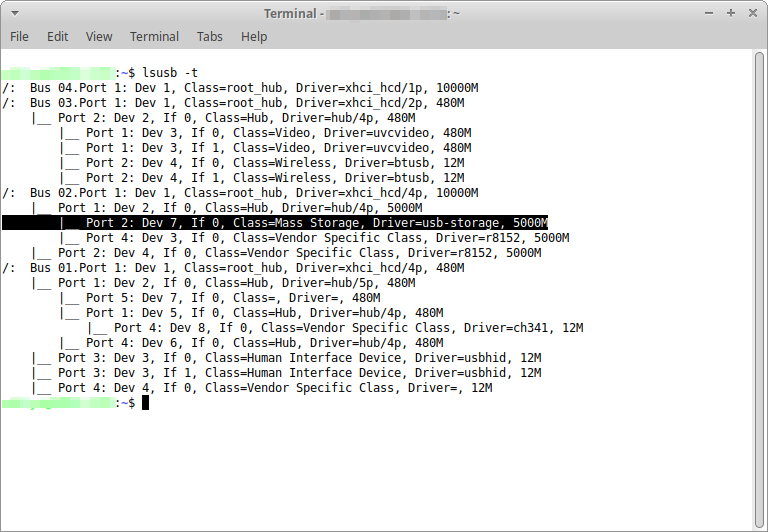
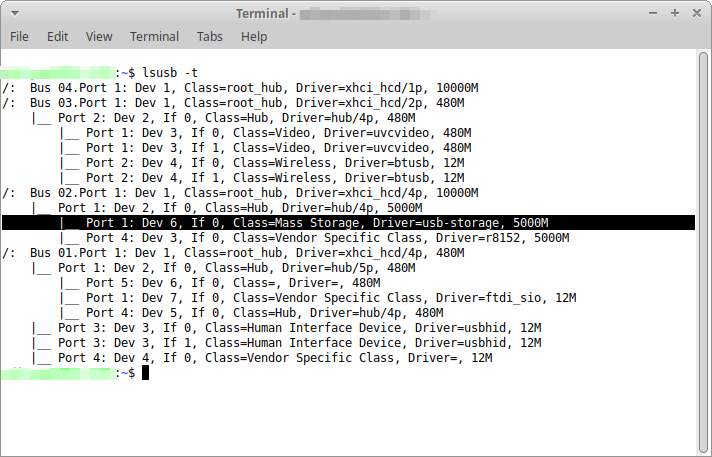
Update USB page

Changed region(s): [[0.0, 0.0, 1.0, 1.0], [0.927, 0.0, 0.9888, 0.0306], [0.0, 0.0, 0.0309, 0.0306]]

diff --git a/docs/helios64/usb.md b/docs/helios64/usb.md
@@ -1,17 +1,24 @@
 
+!!! notice
+    ***preliminary info***
 
-## USB on RK3399
-There are two types of USB controller available on RK3399. Each type has two controller so total USB controllers is 4.
+There are three types of USB controller available on RK3399. Each type has two controller so total USB controllers is 6.
 
-### Generic EHCI USB 2.0 Controller
-There are two controller of this type. This controller is Host only controller that is compatible with USB 2.0 and backward compatible with USB 1.1.
+### Generic OHCI USB 1.1 Controller
+There are two controller of this type. This controller is Host only controller that is compatible with USB 1.1.
 Supported speed:
-
-- High Speed (480 Mbps)
 
 - Full Speed (12 Mbps)
 
 - Low Speed (1.5 Mbps)
+
+### Generic EHCI USB 2.0 Controller
+There are two controller of this type. This controller is Host only controller that is compatible with USB 2.0. The controller shared port with 
+[Generic OHCI USB 1.1 Controller](#generic-ohci-usb-11-controller) therefore any USB 1.1 device connected to the port, will be automatically 
+routed to [Generic OHCI USB 1.1 Controller](#generic-ohci-usb-11-controller).
+Supported speed:
+
+- High Speed (480 Mbps)
 
 
 ### Synopsys DesignWare USB 3.0 Dual-Role Device Controller
@@ -32,11 +39,11 @@ The controller is connected to Rockchip Type-C PHY.
 
 ![!USB Connection](/helios64/img/usb/usb_diagram.png)
 
-One of EHCI Controller is connected to M.2 socket.
+One of EHCI Controller (and OHCI Controller) is connected to M.2 socket.
 
-The first Synopsys DesignWare USB 3.0 Dual-Role Device Controller is connected to USB Type-C connector and configured as OTG with help of FUSB302.
+The first USB 3.0 Dual-Role Device Controller is connected to USB Type-C connector and configured as OTG with help of [FUSB302](https://www.onsemi.com/products/interfaces/usb-type-c/fusb302).
 
-The second Synopsys DesignWare USB 3.0 Dual-Role Device Controller is connected to USB Hub 3.1 Gen 1 and configured as Host only.
+The second USB 3.0 Dual-Role Device Controller is connected to USB Hub 3.1 Gen 1 and configured as Host only.
 
 ### Power Budget
 
@@ -52,26 +59,63 @@ Each of external USB port is protected by Power Distribution switch with followi
 
 ## USB Type-C Functionality on Helios64
 
-To simplify the cabling, Helios64 is designed to have 
+To simplify the cabling, Helios64 is designed to maximize USB Type-C usage.
+
+Helios64 employ High Speed multiplexer on USB 2.0 signal, by default the USB 2.0 signal is routed to USB Serial console.
+The multiplexer can be override using [Jumper](/helios64/hardware/#jumpers)
 
 ![!USB Mux](/helios64/img/usb/usb_mux.png)
+
+When Helios64 connected to PC using USB cable, there will be 2 device connected. FTDI FT232 USB Serial on USB 2.0 and Helios64 or
+Unknown Device (if USB gadget is not configured yet, see below) on USB 3.0.
+
+On Windows PC using [USB Device Tree Viewer](https://www.uwe-sieber.de/usbtreeview_e.html) to visualize the USB tree,
+
+![!USB Tree View dual](/helios64/img/usb/dual_usb_device_windows.png)
+
+In this case, Helios64 is connected to a USB 3.1 Gen 1 Hub port 1.
+
+USB Serial Converter (FTDI FT232 USB Serial) connected under port 1 of the USB 2.0 side of the Hub and 
+RK3399 USB 3.0 (configured as USB Mass Storage Device) connected under port 1 of the USB 3.0 side of the Hub.
+
+On Linux PC using [USBview](http://www.kroah.com/linux-usb/) to visualize the USB tree,
+
+![!USBview dual](/helios64/img/usb/dual_usb_device_linux.png)
+
+In this case, Helios64 is connected to a USB 3.1 Gen 1 Hub port 1.
+
+FTDI FT232 USB Serial connected under port 1 of the USB 2.0 side of the Hub and 
+RK3399 USB 3.0 (configured as USB Mass Storage Device) connected under port 1 of the USB 3.0 side of the Hub.
+
+
+!!! info
+	Every USB hub connected to USB 3.0 port or higher will create a sibling device, USB Hub 2.0, from host point of view.
+	
+	USB 2.0 device connected port 1 of the USB 3.0 Hub, it will appear on USB 2.0 Hub port 1.
+	If USB 3.0 Device connected to same physical port	it will appear on USB  3.0 Hub port 1.
 
 ### Serial Console
 
 Serial Console of Helios64 is connected to FT232 USB Serial converter and the USB 2.0 signal of the FT232 is connected to USB 2.0 signals of USB Type-C Port.
-Refer to ***JUMPER PAGE***
 
 
 ### DisplayPort Alternate Mode
 
 Using USB Type-C to DisplayPort cable or USB Type-C to HDMI dongle, Helios64 can be connected to monitor to display Linux Desktop or other GUI application.
 
-*** Put USB Type-C to DisplayPort cable photo here ***
+![!type-c dp cable](/helios64/img/usb/typec_dp_cable.jpg)
 
-*** Put USB Type-C to HDMI dongle photo here ***
+<center>*USB Type-C to DisplayPort cable*</center>
+
+![!type-c hdmi dongle](/helios64/img/usb/typec_hdmi_usb_dongle.jpg)
+
+<center>*USB Type-C to USB 3.0, HDMI and USB Type-C dongle*</center>
+
 
 !!! note
-    DisplayPort Alternate Mode is NOT supported on U-Boot.
+    - DisplayPort Alternate Mode is NOT supported on U-Boot.
+    
+    - USB Type-C to HDMI cable might not work if it employ HDMI Alternate Mode
 
 
 ### USB Host
@@ -104,19 +148,6 @@ This is to serve as a way to (re)install OS to eMMC.
 
 ## USB under Linux
 
-### USB Bus Mapping
-
-| USB Controller | Bus number | Remarks |
-|----------------|------------|---------|
-| EHCI Host0 | 0 | |
-| EHCI Host1 | 1 | |
-| DWC3 Typec0 USB 3.0 | 2 |  |
-| DWC3 Typec0 USB 2.0 | 3 |  |
-| DWC3 Typec1 USB 3.0 | 4 |  |
-| DWC3 Typec1 USB 2.0 | 5 |  |
-
------  ***TBC***  ------
-
 ### Helios64 as Direct Attached Storage (DAS) device
 
 Helios64 can be used as Direct Attached Storage (DAS) device with help of Linux USB Gadget kernel module.
@@ -134,27 +165,37 @@ the Windows PC will not be able to read the disk content unless 3rd party softwa
 
 #### Individual Disk Exported as Separate Disk
 
------ ***more info soon*** -----
+To export all SATA disks that has been identified as /dev/sda ... /dev/sde, run the following command on Helios64.
 
 ```
-modprobe g_mass_storage file=/dev/sda,/dev/sdb,/dev/sdc,/dev/sdd,/dev/sde iSerialNumber=1234567890 iManufacturer="Kobol Innovations" iProduct=Helios64
+sudo modprobe g_mass_storage file=/dev/sda,/dev/sdb,/dev/sdc,/dev/sdd,/dev/sde iSerialNumber=1234567890 iManufacturer="Kobol Innovations" iProduct=Helios64
 ```
 
------ *** Put Windows Explorer & Disk management screenshot here *** ----- 
+The following screenshot, Helios64 connected with 5x 120GB SATA drive.
 
+***Helios64 connected to PC running Windows***
+
+USB device visualization using USB Device Tree Viewer
+![!usbtreeview Screenshot](/helios64/img/usb/linux_gadget_das_windows_usbtreeview.png)
+
+Helios64 in Device Manager
+![!device manager Screenshot](/helios64/img/usb/linux_gadget_das_windows_device_manager.png)
+
+Disks detected under Disk Management
+![!disk mgmt Screenshot](/helios64/img/usb/linux_gadget_das_windows_diskmgmt.png)
 
 ***Helios64 connected to PC running Linux***
 
-USB device visualization using [USBview](http://www.kroah.com/linux-usb/)
+USB device visualization using USBview
 ![!usbview Screenshot](/helios64/img/usb/linux_gadget_das_usbview.png)
 
 USB tree using lsusb
 ![!lsusb tree Screenshot](/helios64/img/usb/linux_gadget_das_lsusb_tree.png)
 
 ```
-$ sudo lsusb -s 2:7 -v
+$ sudo lsusb -s 2:6 -v
 
-Bus 002 Device 007: ID 0525:a4a5 Netchip Technology, Inc. Pocketbook Pro 903
+Bus 002 Device 006: ID 0525:a4a5 Netchip Technology, Inc. Pocketbook Pro 903
 Device Descriptor:
   bLength                18
   bDescriptorType         1
@@ -282,20 +323,147 @@ sdg  2:0:0:4    disk Linux    File-Stor Gadget 0404 usb
 
 #### RAID device exported as One Disk
 
------ ***more info soon*** -----
+Assuming the RAID already created and identified as /dev/md/md-raid6, run the following command on Helios64 to export the RAID block device as USB Mass Storage
 
 ```
-modprobe g_mass_storage file=/dev/md/md-raid6
+sudo modprobe g_mass_storage file=/dev/md/md-raid6 iManufacturer="Kobol Innovations" iProduct="Helios64" iSerialNumber="1234567890"
 ```
 
------ *** Put Windows Explorer & Disk management screenshot here *** ----- 
+The following screenshot, Helios64 connected with 5x 120GB SATA drive and configured as RAID 6 so total space of the block device is ~360GB (3x 120GB). The block device then formatted with NTFS.
 
------ *** Put lsusb & lsblk here *** ----- 
+***Helios64 connected to PC running Windows***
 
+USB device visualization using USB Device Tree Viewer
+![!usbtreeview Screenshot](/helios64/img/usb/linux_gadget_das_windows_usbtreeview_raid.png)
 
-## Benchmark
+Helios64 in Device Manager
+![!device manager Screenshot](/helios64/img/usb/linux_gadget_das_windows_device_manager_raid.png)
 
------ ***more info soon*** -----
+Disks detected under Disk Management
+![!disk mgmt Screenshot](/helios64/img/usb/linux_gadget_das_windows_diskmgmt_raid.png)
+
+!!! note
+	Since the block device is formatted with NTFS, Windows can recognize it and assign drive letter E:
+
+***Helios64 connected to PC running Linux***
+
+USB device visualization using USBview
+![!usbview Screenshot](/helios64/img/usb/linux_gadget_das_usbview_raid.png)
+
+USB tree using lsusb
+![!lsusb tree Screenshot](/helios64/img/usb/linux_gadget_das_lsusb_tree_raid.png)
+
+```
+Bus 002 Device 006: ID 0525:a4a5 Netchip Technology, Inc. Pocketbook Pro 903
+Device Descriptor:
+  bLength                18
+  bDescriptorType         1
+  bcdUSB               3.00
+  bDeviceClass            0 (Defined at Interface level)
+  bDeviceSubClass         0 
+  bDeviceProtocol         0 
+  bMaxPacketSize0         9
+  idVendor           0x0525 Netchip Technology, Inc.
+  idProduct          0xa4a5 Pocketbook Pro 903
+  bcdDevice            4.04
+  iManufacturer           3 Kobol Innovations
+  iProduct                4 Helios64
+  iSerial                 5 1234567890
+  bNumConfigurations      1
+OTG Descriptor:
+  bLength                 3
+  bDescriptorType         9
+  bmAttributes         0x03
+    SRP (Session Request Protocol)
+    HNP (Host Negotiation Protocol)
+  Configuration Descriptor:
+    bLength                 9
+    bDescriptorType         2
+    wTotalLength           47
+    bNumInterfaces          1
+    bConfigurationValue     1
+    iConfiguration          0 
+    bmAttributes         0xe0
+      Self Powered
+      Remote Wakeup
+    MaxPower              126mA
+    Interface Descriptor:
+      bLength                 9
+      bDescriptorType         4
+      bInterfaceNumber        0
+      bAlternateSetting       0
+      bNumEndpoints           2
+      bInterfaceClass         8 Mass Storage
+      bInterfaceSubClass      6 SCSI
+      bInterfaceProtocol     80 Bulk-Only
+      iInterface              1 Mass Storage
+      Endpoint Descriptor:
+        bLength                 7
+        bDescriptorType         5
+        bEndpointAddress     0x81  EP 1 IN
+        bmAttributes            2
+          Transfer Type            Bulk
+          Synch Type               None
+          Usage Type               Data
+        wMaxPacketSize     0x0400  1x 1024 bytes
+        bInterval               0
+        bMaxBurst              15
+      Endpoint Descriptor:
+        bLength                 7
+        bDescriptorType         5
+        bEndpointAddress     0x01  EP 1 OUT
+        bmAttributes            2
+          Transfer Type            Bulk
+          Synch Type               None
+          Usage Type               Data
+        wMaxPacketSize     0x0400  1x 1024 bytes
+        bInterval               0
+        bMaxBurst              15
+Binary Object Store Descriptor:
+  bLength                 5
+  bDescriptorType        15
+  wTotalLength           22
+  bNumDeviceCaps          2
+  USB 2.0 Extension Device Capability:
+    bLength                 7
+    bDescriptorType        16
+    bDevCapabilityType      2
+    bmAttributes   0x00000006
+      Link Power Management (LPM) Supported
+  SuperSpeed USB Device Capability:
+    bLength                10
+    bDescriptorType        16
+    bDevCapabilityType      3
+    bmAttributes         0x00
+    wSpeedsSupported   0x000f
+      Device can operate at Low Speed (1Mbps)
+      Device can operate at Full Speed (12Mbps)
+      Device can operate at High Speed (480Mbps)
+      Device can operate at SuperSpeed (5Gbps)
+    bFunctionalitySupport   1
+      Lowest fully-functional device speed is Full Speed (12Mbps)
+    bU1DevExitLat           1 micro seconds
+    bU2DevExitLat         500 micro seconds
+Device Status:     0x0000
+  (Bus Powered)
+```
+
+xfce file manager (thunar)
+![!Thunar Screenshot](/helios64/img/usb/linux_gadget_das_thunar_raid.png)
+
+lsblk output
+```
+$ lsblk
+NAME   MAJ:MIN RM   SIZE RO TYPE MOUNTPOINT
+sdc      8:32   0 335,2G  0 disk 
+└─sdc1   8:33   0 335,2G  0 part 
+
+$ lsblk -S
+NAME HCTL       TYPE VENDOR   MODEL             REV TRAN
+sda  0:0:0:0    disk ATA      WDC WDS240G2G0B- 0000 sata
+sdb  1:0:0:0    disk ATA      TOSHIBA MQ04ABF1 0J   sata
+sdc  2:0:0:0    disk Linux    File-Stor Gadget 0404 usb
+```
 
 
 ## References
